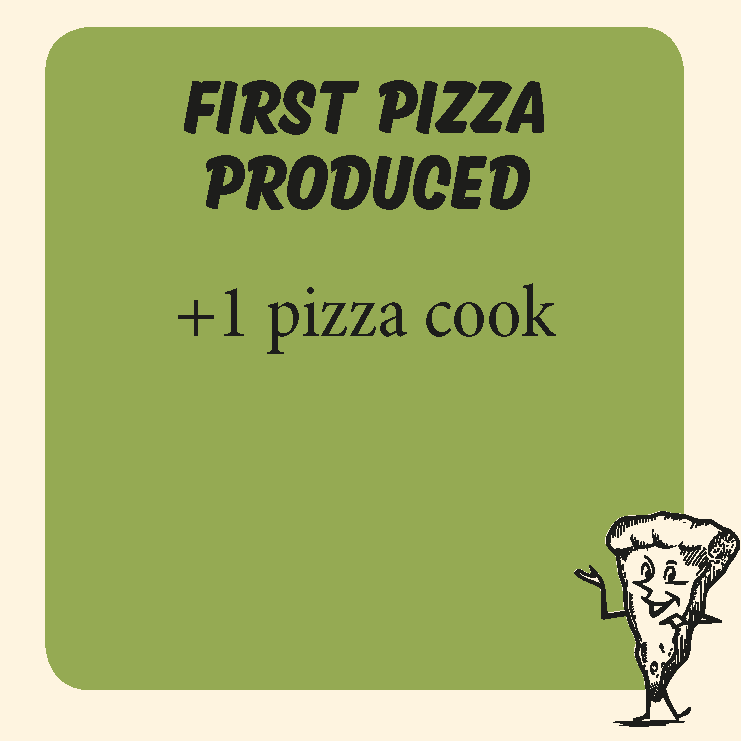
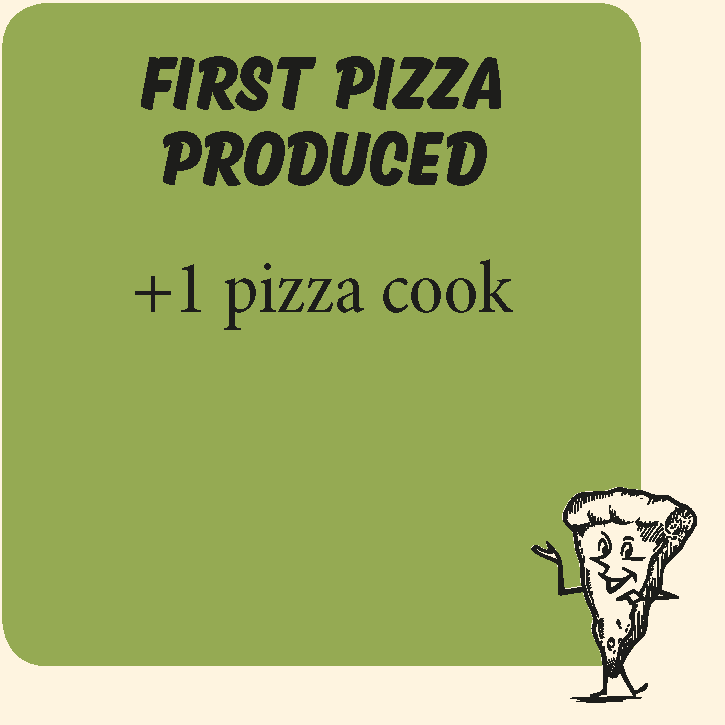
Update milestone pictures so they are left-aligned

Changed region(s): [[0.0, 0.0, 1.0, 1.0], [0.3034, 0.3641, 0.7586, 0.4855], [0.1821, 0.3641, 0.2731, 0.4552]]

diff --git a/_sass/mysass.scss b/_sass/mysass.scss
@@ -291,9 +291,10 @@ nav .my-dropdown-items .my-dropdown-item {
   position: absolute;
   top: 50%;
   left: 50%;
-  transform: translate(-50%, -50%); /* centers exactly */
-  width: 65%;
-  height: 65%;
+  // transform: translate(-50%, -50%); /* centers exactly */
+  transform: translate(-57%, -55%);
+  width: 70%;
+  height: 70%;
   object-fit: cover;
   opacity: 0; /* initially hidden */
   // transition: opacity 0.25s;

diff --git a/food-chain-magnate-calculator.html b/food-chain-magnate-calculator.html
@@ -37,7 +37,7 @@ description: A calculator to help Food Chain Magnate players calculate their pay
     {% for i in (0..5) %}
     <div class="row">
       {% for j in (1..3) %}
-      <div class="col-4 position-relative">
+      <div class="col-4 position-relative pt-2">
         {% assign num = i | times: 3 | plus: j %} {% assign result = num |
         prepend: '00' | slice: -2, 2 %}
         <img
